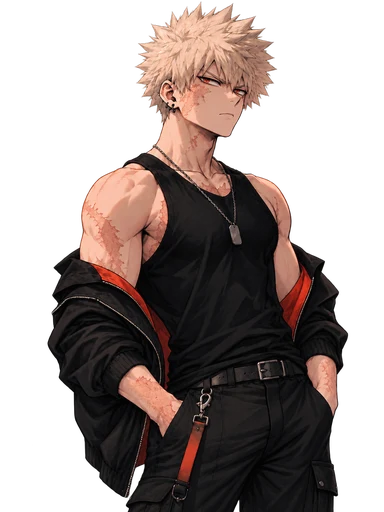
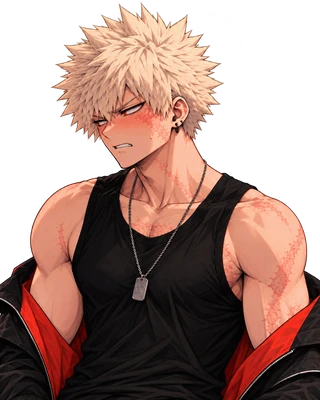
Story visuals: replace legacy off-duty Bakugo sprites with seven approved cutouts (#55)
* assets(bakugo): add seven consistent transparent full-resolution story sprites

* feat(story): map all off-duty Bakugo scene expressions to the seven approved sprites

* feat(story): use new Bakugo silhouettes across story, Living World and companion

* feat(story): use new Bakugo silhouettes across story, Living World and companion

* feat(story): use new Bakugo silhouettes across story, Living World and companion

* docs(canon): designate seven Bakugo off-duty master sprites and retain distinct hero outfit

* chore(pwa): register seven transparent Bakugo sprites and refresh story/companion assets

* chore(pwa): register seven transparent Bakugo sprites and refresh story/companion assets

* assets(bakugo): refresh all three character thumbnails to the new approved look

* refactor(visuals): route legacy Bakugo thumbnails and daily/cameo portraits to seven approved sprites

* refactor(visuals): route legacy Bakugo thumbnails and daily/cameo portraits to seven approved sprites

* refactor(visuals): route legacy Bakugo thumbnails and daily/cameo portraits to seven approved sprites

* refactor(visuals): route legacy Bakugo thumbnails and daily/cameo portraits to seven approved sprites

* refactor(visuals): route legacy Bakugo thumbnails and daily/cameo portraits to seven approved sprites

* test(story): verify legacy off-duty expression mapping, seven real sprites and hero costumes

* ci(visuals): verify Bakugo story migration, all seven images, no dead runtime references
[…]

diff --git a/companion-moments-v2.js b/companion-moments-v2.js
@@ -9,7 +9,7 @@
   const safe = v => app.escapeHtml?.(String(v ?? "")) ?? String(v ?? "").replace(/[&<>"']/g,c=>({"&":"&amp;","<":"&lt;",">":"&gt;",'"':"&quot;","'":"&#39;"}[c]));
   const dayKey = (ms=Date.now()) => {const d=new Date(ms);return `${d.getFullYear()}-${String(d.getMonth()+1).padStart(2,"0")}-${String(d.getDate()).padStart(2,"0")}`;};
   const dayNumber = key => {const [y,m,d]=String(key||"").split("-").map(Number);return y&&m&&d?Math.floor(new Date(y,m-1,d,12).getTime()/DAY):0;};
-  const cast={bakugo:{name:"Katsuki",neutral:"assets/story/characters/bakugo-neutral.png",soft:"assets/story/characters/bakugo-soft.png",smug:"assets/story/characters/bakugo-smug.png"},kirishima:{name:"Eijiro",neutral:"assets/story/characters/kirishima-neutral.png",soft:"assets/story/characters/kirishima-happy.png",smug:"assets/story/characters/kirishima-teasing.png"}};
+  const cast={bakugo:{name:"Katsuki",neutral:"assets/story/characters/bakugo-neutral.webp",soft:"assets/story/characters/bakugo-proud.webp",smug:"assets/story/characters/bakugo-proud.webp"},kirishima:{name:"Eijiro",neutral:"assets/story/characters/kirishima-neutral.png",soft:"assets/story/characters/kirishima-happy.png",smug:"assets/story/characters/kirishima-teasing.png"}};
   const BG={kitchen:"assets/story/backgrounds/time/shared_apartment_kitchen_day.webp",living:"assets/story/backgrounds/time/shared_apartment_day.webp",night:"assets/story/backgrounds/time/shared_apartment_night.webp"};
   const REALMS={Work:{node:"work-moments",base:"work",title:"After the Bell · Later"},Knowledge:{node:"knowledge-moments",base:"knowledge",title:"Puzzle Table · Later"},Japanese:{node:"japanese-moments",base:"japanese",title:"Everyday Japanese · Later"},Health:{node:"health-moments",base:"health",title:"A Gentler Pace · Later"},Recovery:{node:"recovery-moments",base:"recovery",title:"Quiet Company · Later"},Home:{node:"home-moments",base:"home",title:"Apartment Hours · Later"},Hobbies:{node:"hobbies-moments",base:"hobbies",title:"Off-Duty Club · Later"}};
   const N=text=>({speaker:"luca",text}), S=(speaker,text,mood="neutral")=>({speaker,text,mood}), Q=(text,options)=>({speaker:"luca",text,choices:options});

diff --git a/bakugo-visual-map.js b/bakugo-visual-map.js
@@ -1,0 +1,32 @@
+/* Bakugo Story Sprite consolidation · 2026-10-21
+   Seven approved transparent off-duty sprites. Pure expression routing, no save state.
+   Adult Pro-Hero outfit remains separate to preserve hero-costume continuity.
+*/
+(function(root,factory){
+  const api=factory();
+  if(typeof module==='object'&&module.exports)module.exports=api;
+  if(root)root.LifeRPGBakugoVisuals=api;
+})(typeof globalThis!=='undefined'?globalThis:this,function(){
+  'use strict';
+  const prefix='assets/story/characters/bakugo-';
+  const bases=Object.freeze(['neutral','annoyed','angry','proud','flustered','surprised','worried']);
+  const paths=Object.freeze(Object.fromEntries(bases.map(id=>[id,prefix+id+'.webp'])));
+  const emotionForExpression=(expression)=>{
+    const e=String(expression||'neutral').toLowerCase();
+    if(/surpris|startl|caught.?off.?guard|shock/.test(e))return 'surprised';
+    if(/fluster|embarrass|shy|tsundere|bashful/.test(e))return 'flustered';
+    if(/angry|rage|feral|seething|sparking|shouting|clenched|furious/.test(e))return 'angry';
+    if(/concern|worr|protect|vulnerab|tired|weary|pain|hurt|uneasy|sad|exhaust/.test(e))return 'worried';
+    if(/annoy|irritat|disgust|scorn|skeptic|unimpress|deadpan|brood|away/.test(e))return 'annoyed';
+    if(/smug|cocky|proud|happy|amused|grin|laugh|smil|affection|playful|confiden|excited|soft|determined|focused|challenge|swagger/.test(e))return 'proud';
+    return 'neutral';
+  };
+  function forItem(character,item){
+    if(!character||item?.id!=='bakugo')return null;
+    const outfit=item?.outfit||character.defaultOutfit||'offduty';
+    if(outfit==='hero')return null; // Keep actual Hero costume sprites for active-duty story chapters.
+    const emotion=emotionForExpression(item?.expression);
+    return {src:paths[emotion],emotion};
+  }
+  return Object.freeze({bases,paths,emotionForExpression,forItem});
+});

diff --git a/index.html b/index.html
@@ -3585,7 +3585,8 @@ League of Legends — PC" required></textarea></label>
   <script src="bullet-journal-collections.js?v=0.31.4-collection-shelves2"></script>
   <script src="bullet-journal-atelier.js?v=0.31.4-atelier-direct-handles1"></script>
   <script src="relationship-memory.js?v=0.31.4cy"></script>
-  <script src="story-ui.js?v=0.31.4dz38"></script>
+  <script src="bakugo-visual-map.js?v=0.31.4-bakugo-seven1"></script>
+<script src="story-ui.js?v=0.31.4-bakugo-seven1"></script>
   <script src="relationship-engine.js?v=0.31.4ba"></script>
   <script src="gifts.js?v=0.31.4ba"></script>
   <script src="seasons.js?v=0.31.4ba"></script>
@@ -3610,7 +3611,7 @@ League of Legends — PC" required></textarea></label>
   <script src="talent-content-v2.js?v=0.31.4cw"></script>
   <script src="talent-v3-experiences.js?v=0.31.4dz35"></script>
   <script src="companion-moments.js?v=0.31.4da"></script>
-  <script src="living-world-v3.js?v=0.31.4-health-echo2"></script>
+  <script src="living-world-v3.js?v=0.31.4-bakugo-seven1"></script>
   <script src="social-delivery.js?v=0.31.4-health-echo2"></script>
   <script src="dreamscape-v2-scenes.js?v=0.31.4cx"></script>
   <script src="dreamscape.js?v=0.31.4cx"></script>
@@ -3635,7 +3636,7 @@ League of Legends — PC" required></textarea></label>
   <script src="dashboard-v2.js?v=0.31.4dz20"></script>
   <script src="living-companion-core.js?v=0.31.4-lc3"></script>
   <script src="living-companion-personality.js?v=0.31.4-lc4"></script>
-  <script src="living-companion.js?v=0.31.4-lc4"></script>
+  <script src="living-companion.js?v=0.31.4-bakugo-seven1"></script>
   <script>window.addEventListener('DOMContentLoaded',()=>{requestAnimationFrame(()=>requestAnimationFrame(()=>document.documentElement.classList.remove('life-rpg-hydrating')));},{once:true});</script>
 </body>
 </html>

diff --git a/service-worker.js b/service-worker.js
@@ -1,4 +1,4 @@
-const CACHE_NAME = "life-rpg-v0.31.4-companion-personality4-home-toast";
+const CACHE_NAME = "life-rpg-v0.31.4-bakugo-seven1";
 const ASSET_CACHE_NAME = "life-rpg-assets-v6";
 const MAX_RUNTIME_ASSETS = 96;
 const CORE = [
@@ -29,7 +29,7 @@ const CORE = [
   "./task-focus.css?v=0.31.4-focus1",
   "./living-companion-core.js?v=0.31.4-lc3",
   "./living-companion-personality.js?v=0.31.4-lc4",
-  "./living-companion.js?v=0.31.4-lc4",
+  "./living-companion.js?v=0.31.4-bakugo-seven1",
   "./living-companion.css?v=0.31.4-lc4",
   "./task-free-days.css?v=0.31.4-freedays1",
   "./task-google-calendar-core.js?v=0.31.4-gcal1",
@@ -104,7 +104,7 @@ const CORE = [
   "./talent-v3-experiences.js?v=0.31.4dz35",
   "./companion-moments.css?v=0.31.4da",
   "./companion-moments.js?v=0.31.4da",
-  "./living-world-v3.js?v=0.31.4-health-echo2",
+  "./living-world-v3.js?v=0.31.4-bakugo-seven1",
   "./social-delivery.js?v=0.31.4-health-echo2",
   "./social-delivery.css?v=0.31.4dc",
   "./living-world-v3.css?v=0.31.4db",
@@ -260,7 +260,15 @@ const CORE = [
   "./bullet-journal-monthly.js?v=0.31.4-monthly-preview1",
   "./bullet-journal-collections.js?v=0.31.4-collection-shelves2",
   "./story-engine.js?v=0.31.4dz16",
-  "./story-ui.js?v=0.31.4dz38",
+  "./bakugo-visual-map.js?v=0.31.4-bakugo-seven1",
+  "./assets/story/characters/bakugo-angry.webp",
+  "./assets/story/characters/bakugo-annoyed.webp",
+  "./assets/story/characters/bakugo-flustered.webp",
+  "./assets/story/characters/bakugo-neutral.webp",
+  "./assets/story/characters/bakugo-proud.webp",
+  "./assets/story/characters/bakugo-surprised.webp",
+  "./assets/story/characters/bakugo-worried.webp",
+  "./story-ui.js?v=0.31.4-bakugo-seven1",
   "./relationship-memory.js?v=0.31.4cy",
   "./relationship-memory.css?v=0.31.4ba",
   "./talks-v2.css?v=0.31.4cy",

diff --git a/living-world-v3.js b/living-world-v3.js
@@ -8,7 +8,7 @@
   const KEY=()=>{const d=new Date();return [d.getFullYear(),String(d.getMonth()+1).padStart(2,"0"),String(d.getDate()).padStart(2,"0")].join("-");};
   const at=ms=>{const d=new Date(ms);return Number.isFinite(d.getTime())?[d.getFullYear(),String(d.getMonth()+1).padStart(2,"0"),String(d.getDate()).padStart(2,"0")].join("-"):"";};
   const homeReady=()=>Boolean(app.getState().flags?.DYNARIOT_MOVE_IN_COMPLETE);
-  const cast={bakugo:{name:"Katsuki",neutral:"assets/story/characters/bakugo-neutral.png",soft:"assets/story/characters/bakugo-soft.png"},kirishima:{name:"Eijiro",neutral:"assets/story/characters/kirishima-neutral.png",soft:"assets/story/characters/kirishima-happy.png"}};
+  const cast={bakugo:{name:"Katsuki",neutral:"assets/story/characters/bakugo-neutral.webp",soft:"assets/story/characters/bakugo-proud.webp"},kirishima:{name:"Eijiro",neutral:"assets/story/characters/kirishima-neutral.png",soft:"assets/story/characters/kirishima-happy.png"}};
   // These moments happen in the player's present day, unlike authored Story V2 chapters.
   const daypart=()=>{const h=new Date().getHours();return h<6||h>=21?"night":h<10?"dawn":h<17?"day":h<20?"sunset":"night";};
   const backgroundFor=(room,part)=>"assets/story/backgrounds/time/"+(room==="kitchen"?"shared_apartment_kitchen_":"shared_apartment_")+(["dawn","day","sunset","night"].includes(part)?part:"day")+".webp";

diff --git a/visual-performance.js b/visual-performance.js
@@ -12,9 +12,9 @@
     'assets/story/characters/kirishima-neutral.png': 'assets/ui/thumbs/characters/kirishima-neutral.webp',
     'assets/story/characters/kirishima-happy.png': 'assets/ui/thumbs/characters/kirishima-happy.webp',
     'assets/story/characters/kirishima-serious.png': 'assets/ui/thumbs/characters/kirishima-serious.webp',
-    'assets/story/characters/bakugo-neutral.png': 'assets/ui/thumbs/characters/bakugo-neutral.webp',
-    'assets/story/characters/bakugo-happy-soft-smirk.png': 'assets/ui/thumbs/characters/bakugo-happy-soft-smirk.webp',
-    'assets/story/characters/bakugo-annoyed-mild.png': 'assets/ui/thumbs/characters/bakugo-annoyed-mild.webp',
+    'assets/story/characters/bakugo-neutral.webp': 'assets/ui/thumbs/characters/bakugo-neutral.webp',
+    'assets/story/characters/bakugo-proud.webp': 'assets/ui/thumbs/characters/bakugo-happy-soft-smirk.webp',
+    'assets/story/characters/bakugo-annoyed.webp': 'assets/ui/thumbs/characters/bakugo-annoyed-mild.webp',
     'assets/story/backgrounds/home_morning.png': 'assets/ui/thumbs/backgrounds/home_morning.webp',
     'assets/story/backgrounds/station_evening.png': 'assets/ui/thumbs/backgrounds/station_evening.webp',
     'assets/story/backgrounds/city_dusk.png': 'assets/ui/thumbs/backgrounds/city_dusk.webp',

diff --git a/daily.js b/daily.js
@@ -1748,10 +1748,10 @@
     }
     if (provisionalCompanion.id === "bakugo") {
       img.src = mood === "positive" || mood === "warm"
-        ? uiThumb("assets/story/characters/bakugo-happy-soft-smirk.png")
+        ? uiThumb("assets/story/characters/bakugo-proud.webp")
         : mood === "skeptical" || mood === "low"
-          ? uiThumb("assets/story/characters/bakugo-annoyed-mild.png")
-          : uiThumb("assets/story/characters/bakugo-neutral.png");
+          ? uiThumb("assets/story/characters/bakugo-annoyed.webp")
+          : uiThumb("assets/story/characters/bakugo-neutral.webp");
       return;
     }
     img.src = mood === "positive" || mood === "warm"
@@ -3366,7 +3366,7 @@
         name: "Bakugo",
         kicker: "A QUICK CHECK-IN",
         weight: 1,
-        portrait: "assets/story/characters/bakugo-neutral.png",
+        portrait: "assets/story/characters/bakugo-neutral.webp",
         previewLine: "On some days, Bakugo's version of checking in is mostly just demanding accurate information.",
         dialogLine: "Status. How bad is it?",
         doneLine: "There. Accurate status. Don’t make the day harder than it already is."

diff --git a/living-companion.js b/living-companion.js
@@ -5,7 +5,7 @@
  if(!app?.getState||!app.saveState||!core)return;
  const E=v=>app.escapeHtml?.(String(v??''))||String(v??'').replace(/[&<>"']/g,ch=>({'&':'&amp;','<':'&lt;','>':'&gt;','"':'&quot;',"'":'&#39;'}[ch]));
  const faces={
-   bakugo:{name:'Katsuki',img:'assets/story/characters/bakugo-neutral.png',soft:'assets/story/characters/bakugo-soft.png',symbol:'💥'},
+   bakugo:{name:'Katsuki',img:'assets/story/characters/bakugo-neutral.webp',soft:'assets/story/characters/bakugo-proud.webp',symbol:'💥'},
    kirishima:{name:'Eijiro',img:'assets/story/characters/kirishima-neutral.png',soft:'assets/story/characters/kirishima-happy.png',symbol:'☀'},
    mina:{name:'Mina',img:'assets/story/sprites/mina_neutral.png',symbol:'💗'},
    luca:{name:'Luca',img:'assets/ui/thumbs/characters/luca_neutral.webp',soft:'assets/ui/thumbs/characters/luca_soft_smile.webp',symbol:'✿'}

diff --git a/companion-moments.js b/companion-moments.js
@@ -18,7 +18,7 @@
     Hobbies:"assets/story/backgrounds/time/shared_apartment_night.webp"
   };
   const SPRITES = {
-    bakugo:{neutral:"assets/story/characters/bakugo-neutral.png",soft:"assets/story/characters/bakugo-soft.png",smug:"assets/story/characters/bakugo-smug.png"},
+    bakugo:{neutral:"assets/story/characters/bakugo-neutral.webp",soft:"assets/story/characters/bakugo-proud.webp",smug:"assets/story/characters/bakugo-proud.webp"},
     kirishima:{neutral:"assets/story/characters/kirishima-neutral.png",soft:"assets/story/characters/kirishima-happy.png",smug:"assets/story/characters/kirishima-teasing.png"}
   };
   const n = (text) => ({speaker:"luca",text});

diff --git a/story-ui.js b/story-ui.js
@@ -5015,6 +5015,11 @@
   function resolveCharacterAsset(character, item) {
     if (!character) return null;
 
+    // Approved Oct 2026 Bakugo off-duty sprites replace legacy expression variants.
+    // Hero outfit continues to use its actual Pro-Hero costumes from the story pack.
+    const consolidated = window.LifeRPGBakugoVisuals?.forItem?.(character, item);
+    if (consolidated?.src) return consolidated;
+
     // V0.8 supports explicit outfit + expression while remaining compatible
     // with the older flat expression map.
     const outfitName = item?.outfit || character.defaultOutfit;

diff --git a/dreamscape.js b/dreamscape.js
@@ -1486,7 +1486,7 @@
     Hobbies: "assets/story/backgrounds/time/shared_apartment_night.webp"
   };
   const DREAM_SPRITES = {
-    bakugo: ["assets/story/characters/bakugo-neutral.png", "assets/story/characters/bakugo-soft.png"],
+    bakugo: ["assets/story/characters/bakugo-neutral.webp", "assets/story/characters/bakugo-proud.webp"],
     kirishima: ["assets/story/characters/kirishima-neutral.png", "assets/story/characters/kirishima-happy.png"]
   };
   function sceneBeats(dream) {

diff --git a/journal.js b/journal.js
@@ -169,7 +169,7 @@
       id: "bakugo",
       name: "Bakugo",
       kicker: "MESSAGE FROM BAKUGO",
-      portrait: "assets/story/characters/bakugo-neutral.png",
+      portrait: "assets/story/characters/bakugo-neutral.webp",
       prompts: {
         choice: "You done, or you keeping one more thing from today?",
         gratitude: "One thing that didn't suck. Go.",
